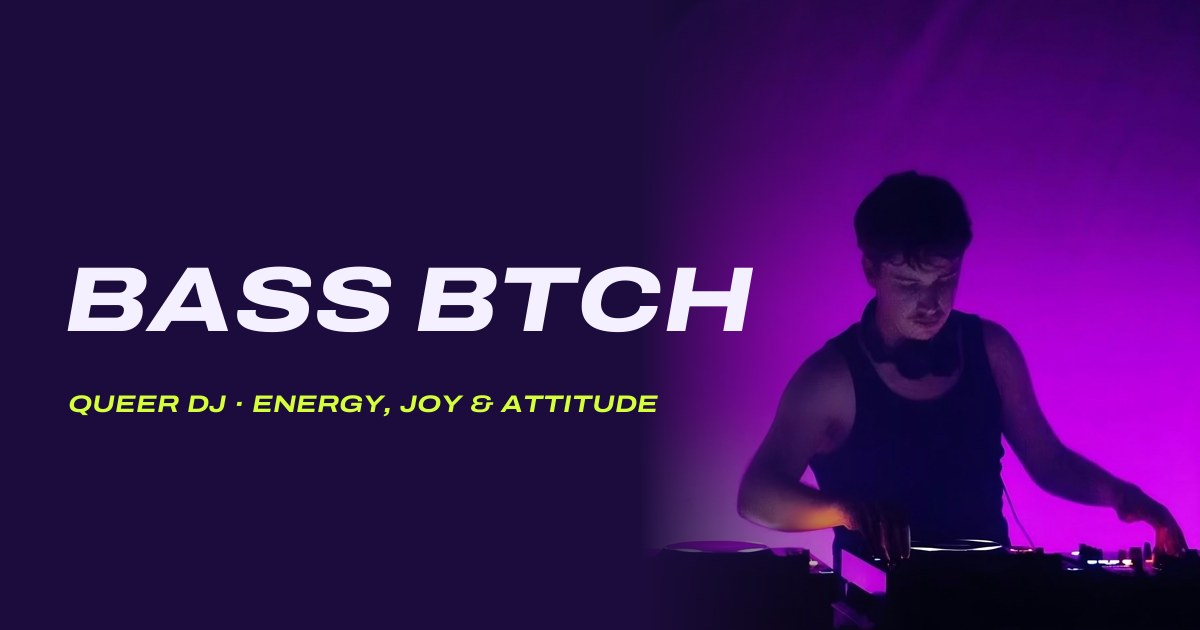
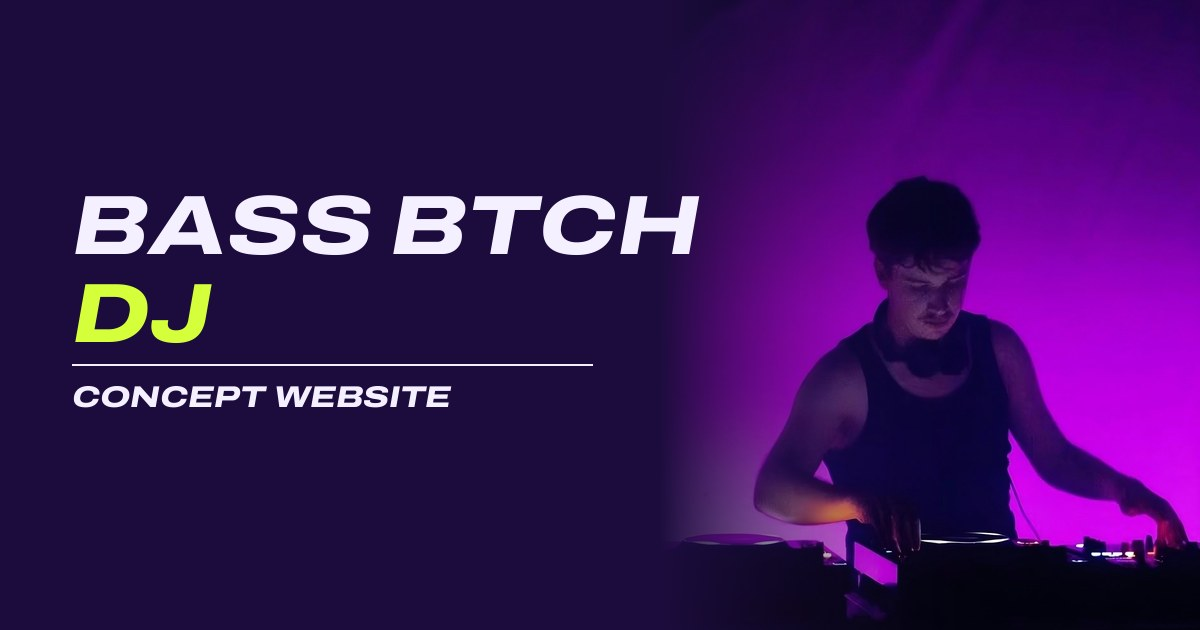
changed link preview

diff --git a/son/index.html b/son/index.html
@@ -13,13 +13,17 @@
 
   <meta property="og:type" content="website">
   <meta property="og:site_name" content="BASS BTCH">
-  <meta property="og:title" content="BASS BTCH | Queer DJ">
+  <meta property="og:url" content="https://freycreates.nl/son/">
+  <meta property="og:title" content="BASS BTCH | DJ · Concept website">
   <meta property="og:description" content="Energy, joy and attitude. Iconic queer anthems and unexpected house edits.">
-  <meta property="og:image" content="https://freycreates.nl/son/assets/og-image.jpg">
+  <meta property="og:image" content="https://freycreates.nl/son/assets/og-image.jpg?v=2">
   <meta property="og:image:width" content="1200">
   <meta property="og:image:height" content="630">
-  <meta property="og:image:alt" content="The BASS BTCH logo next to a photo of BASS BTCH DJing under purple light">
+  <meta property="og:image:alt" content="BASS BTCH, DJ, concept website, next to a photo of BASS BTCH DJing under purple light">
   <meta name="twitter:card" content="summary_large_image">
+  <meta name="twitter:title" content="BASS BTCH | DJ · Concept website">
+  <meta name="twitter:description" content="Energy, joy and attitude. Iconic queer anthems and unexpected house edits.">
+  <meta name="twitter:image" content="https://freycreates.nl/son/assets/og-image.jpg?v=2">
 
   <link rel="icon" type="image/png" sizes="32x32" href="assets/favicon-32.png">
   <link rel="apple-touch-icon" href="assets/apple-touch-icon.png">
@@ -98,7 +102,7 @@
     .played li:not(:last-child)::after { content: "/"; margin: 0 14px; color: var(--muted); font-style: normal; }
 
     /* ---------- Sections ---------- */
-    section.block { padding: clamp(72px, 11vw, 140px) 0 0; }
+    section.block { padding: clamp(56px, 6.5vw, 88px) 0 0; }
     .section-head { display: flex; justify-content: space-between; align-items: end; gap: 24px; flex-wrap: wrap; margin-bottom: 36px; }
     .section-head .num { color: var(--muted); display: block; margin-bottom: 14px; }
     .section-head h2 { font-size: clamp(40px, 6vw, 76px); }
@@ -154,7 +158,7 @@
     .agenda-empty { color: var(--muted); }
 
     /* ---------- Bookings ---------- */
-    .book { padding: clamp(80px, 12vw, 160px) 0 clamp(72px, 10vw, 120px); }
+    .book { padding: clamp(56px, 6.5vw, 88px) 0 clamp(56px, 7vw, 96px); }
     .book-card {
       position: relative; overflow: hidden;
       background: var(--color-main); border-radius: var(--radius); border: 1px solid var(--card-edge);

diff --git a/son/README.md b/son/README.md
@@ -26,6 +26,6 @@ and at the root of `bassbtch.com` later, without changes.
 ## Launch on bassbtch.com
 
 1. Create a new repo, put the contents of `son/` at its root, enable Pages, add a `CNAME` file containing `bassbtch.com`.
-2. In `index.html`: change both the `robots` and `googlebot` meta tags to `index, follow`, uncomment the canonical link, and change the `og:image` URL to `https://bassbtch.com/assets/og-image.jpg`.
+2. In `index.html`: change both the `robots` and `googlebot` meta tags to `index, follow`, uncomment the canonical link, and change `og:url`, `og:image` and `twitter:image` from `freycreates.nl/son/` to `bassbtch.com/`.
 3. Leave `create/index.html` on `noindex`.
 4. Redirect or remove `freycreates.nl/son/`.
